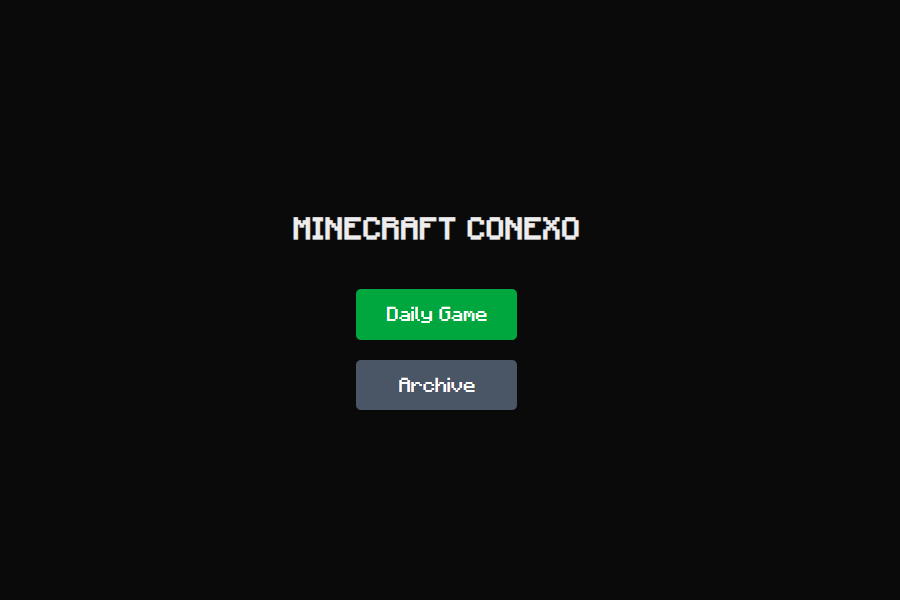
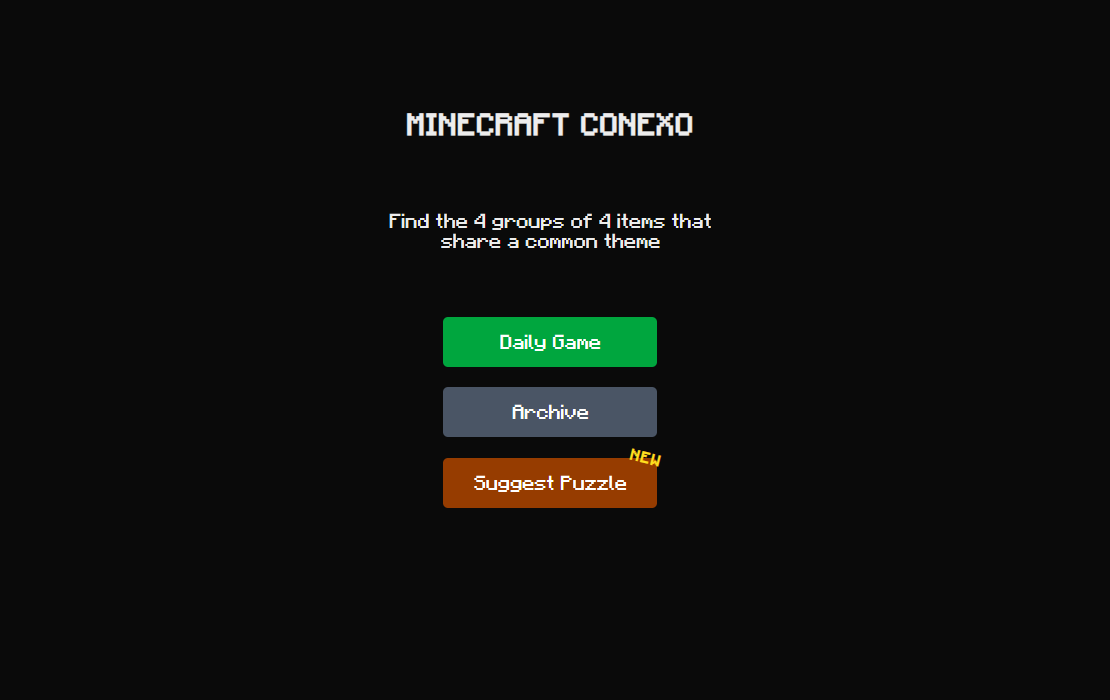
docs: rewrite readme for image-based relaunch

Changed region(s): [[0.3733, 0.45, 0.5911, 0.75], [0.3111, 0.3, 0.6533, 0.42], [0.3422, 0.15, 0.6222, 0.21]]

diff --git a/README.md b/README.md
@@ -1,6 +1,6 @@
 # Minecraft Conexo
 
-A daily Minecraft-themed word-grouping puzzle game — inspired by [Conexo](https://conexo.ws/) and the _Connecting Wall_ segment from BBC's _Only Connect_.
+A daily Minecraft-themed item-grouping puzzle game — inspired by [Conexo](https://conexo.ws/) and the _Connecting Wall_ segment from BBC's _Only Connect_.
 
 **[▶ Play today's puzzle](https://minecraft-conexo.vercel.app/)**
 
@@ -8,13 +8,12 @@ A daily Minecraft-themed word-grouping puzzle game — inspired by [Conexo](http
 
 ## 🎮 How to Play
 
-You're presented with a **4×4 grid of 16 tiles** — all Minecraft related. Your goal is to find the **4 hidden groups of 4**, where each group shares a hidden correlation.
+You're presented with a **4×4 grid of 16 tiles** — all Minecraft related, each shown with its in-game image. Your goal is to find the **4 hidden groups of 4**, where each group shares a hidden correlation.
 
 - Select 4 tiles you think belong together to submit
+- A correct group is revealed immediately
 - No lives — you can try as many times as you want
 - The real challenge is finding all groups with **as few attempts and hints as possible**
-- A **new puzzle drops every day**, handcrafted with care
-- Missed a day? Play any previous puzzle in the **Archive**
 
 ### 💡 Hint System
 
@@ -26,31 +25,56 @@ Stuck? Use a hint:
 
 ---
 
-## 📸 Screenshots
+## 📸 Screenshots & Demos
 
 ### Home Screen
 
-![Home Screen](src/screenshots/home-page.png)
+<img src="src/screenshots/home-page.png" width="700" />
 
 ### Archive (Previous Puzzles)
 
-![Archive](src/screenshots/archive.png)
+<img src="src/screenshots/archive.png" width="700" />
 
 ### The Grid
 
-![The Grid](src/screenshots/puzzle-grid.png)
+<img src="src/screenshots/puzzle-grid.png" width="700" />
 
 ### Hints Revealed
 
-![Hints Revealed](src/screenshots/hints-revealed.png)
+<img src="src/screenshots/hints-revealed.png" width="700" />
 
 ### Group Solved
 
-![Group Solved](src/screenshots/solved-groups.png)
+<img src="src/screenshots/solved-groups.png" width="700" />
 
-### Victory Screen
+### Item Tooltip
 
-![Victory Screen](src/screenshots/victory-screen.png)
+<img src="src/screenshots/item-tooltip.gif" width="700" />
+
+---
+
+## ✨ Features
+
+- 📅 **Daily puzzle** — new handmade puzzle every day
+- 🖼 **Image-based tiles** — every item is rendered with its actual in-game image, sourced from a registry built by crawling the Minecraft Wiki API
+- 💡 **Progressive hint system** — reveals related tiles one at a time
+- 🏷 **Item tooltips** — hovering an item shows a Minecraft-styled tooltip with its name
+- 🗂 **Archive** — play all previous puzzles
+- 💾 **Progress saved locally** — resume where you left off, even after closing the browser
+- 📊 **Stats tracking** — attempts and hints used per puzzle
+- 📱 **Fully responsive** — works on desktop and mobile
+- 🧑🤝🧑 **Community submissions** — anyone can suggest a puzzle through an in-app builder
+
+---
+
+## 🧩 About the Puzzle Format
+
+Each puzzle is handcrafted — every group has a deliberate, Minecraft-specific connection. Some items act as **tells**: ones so strongly or uniquely tied to a category that they hint at the correct correlation, giving players a signal to lean on. Tells are more common in easier groups; harder groups tend to replace them with items connected by a narrow, lesser-known interaction instead, leaving fewer signals to go on. Items can also be **decoys** — _seeming_ like they fit in multiple groups, designed to mislead.
+
+Beyond individual items, groups themselves are color-coded by difficulty:
+🟨 **Yellow** — easiest &nbsp;·&nbsp; 🟩 **Green** &nbsp;·&nbsp; 🟦 **Blue** &nbsp;·&nbsp; 🟪 **Purple** — hardest
+
+The difficulty levels range from straightforward (items from the same biome) to tricky lateral thinking (items that share a hidden or unusual mechanic).
 
 ---
 
@@ -60,32 +84,50 @@ Stuck? Use a hint:
 | ---------------- | --------------------------------------------- |
 | Framework        | [Next.js](https://nextjs.org/)                |
 | Language         | [TypeScript](https://www.typescriptlang.org/) |
+| API Routes       | Next.js Route Handlers (REST-style)           |
 | Styling          | [Tailwind CSS](https://tailwindcss.com/)      |
 | State Management | [Zustand](https://zustand-demo.pmnd.rs/)      |
+| Drag & Drop      | [dnd kit](https://dndkit.com/)                |
 | Persistence      | localStorage                                  |
 | Deployment       | [Vercel](https://vercel.com/)                 |
 
 ---
 
-## ✨ Features
+## 🖼 Image Registry
 
-- 📅 **Daily puzzle** — new handmade puzzle every day
-- 🗂 **Archive** — play all previous puzzles
-- 💡 **Progressive hint system** — reveals related tiles one at a time
-- 💾 **Progress saved locally** — resume where you left off, even after closing the browser
-- 📊 **Stats tracking** — attempts and hints used per puzzle
-- 📱 **Fully responsive** — works on desktop and mobile
+Every item's image comes from a local registry (`registry.json`), built by crawling the [Minecraft Wiki API](https://minecraft.wiki). Entries are maintained by hand through the registry admin page, and any entry can be locked with a `_manual` flag to mark it as a manual override.
+
+For each entry, the registry stores its image URL, its wiki page link, and translated names in Portuguese/Spanish — laid in now to make future localization straightforward, though the game itself is English-only at the moment.
+
+Some items don't have a clean 1:1 in-game icon, so a handful of entries use custom-composited images instead of a raw wiki image — for example, potions and tipped arrows get a small effect-icon overlay so you can tell them apart at a glance, and enchantments (which have no icon in-game at all) use a custom glint-effect graphic paired with a text label.
+
+### Registry Admin
+
+An internal `/admin/registry` page provides a searchable, editable table view of the entire registry, backed by a REST-style API (create/update/delete) — used to audit entries, fix broken images.
+
+<img src="src/screenshots/registry-admin.gif" width="700" />
 
 ---
 
-## 🧩 About the Puzzle Format
+## ✏ Suggest & Create a Puzzle
 
-Each puzzle is handcrafted — every group has a deliberate, Minecraft-specific connection. Groups are designed to have **plausible distractors**: tiles that _seem_ like they fit in multiple groups, making the puzzle genuinely challenging.
+Anyone can submit their own puzzle ideas through a `/suggest` page:
 
-Groups are color-coded by difficulty:
-🟨 **Yellow** — easiest &nbsp;·&nbsp; 🟩 **Green** &nbsp;·&nbsp; 🟦 **Blue** &nbsp;·&nbsp; 🟪 **Purple** — hardest
+- A **live preview board** renders the tiles as you build the puzzle, so you can see exactly how it'll look before submitting
+- Item inputs search the registry directly, with an autocomplete dropdown showing the matched entry's image — unmatched text is still accepted and shown as a placeholder label
+- Groups and items can be **drag-reordered**, which also updates each group's difficulty color
+- A free-text notes field lets submitters flag anything relevant that won't ship to players (e.g. block variants, edge cases)
+- Submissions are sent to a Google Form, which notifies me by email when a new puzzle comes in
 
-The difficulty levels range from straightforward (items from the same biome) to tricky lateral thinking (items that share a hidden or unusual mechanic).
+<img src="src/screenshots/suggest-page.gif" width="700" />
+
+The internal `/admin/create` page reuses the same builder, with a few admin-only additions:
+
+- A **date** and optional, auto-incrementing **puzzle ID**
+- A **"paste from clipboard"** import that parses a puzzle JSON (e.g., from a [Suggest](#%EF%B8%8F-suggest--create-a-puzzle) submission) straight into the form
+- A list of every **previous puzzle's** groups, correlations, and items below the builder — both a quick reference while creating new puzzles and, via a one-click **edit** shortcut, a way to reload a past puzzle back into the form for overwriting
+
+<img src="src/screenshots/create-page.gif" width="700" />
 
 ---
 
